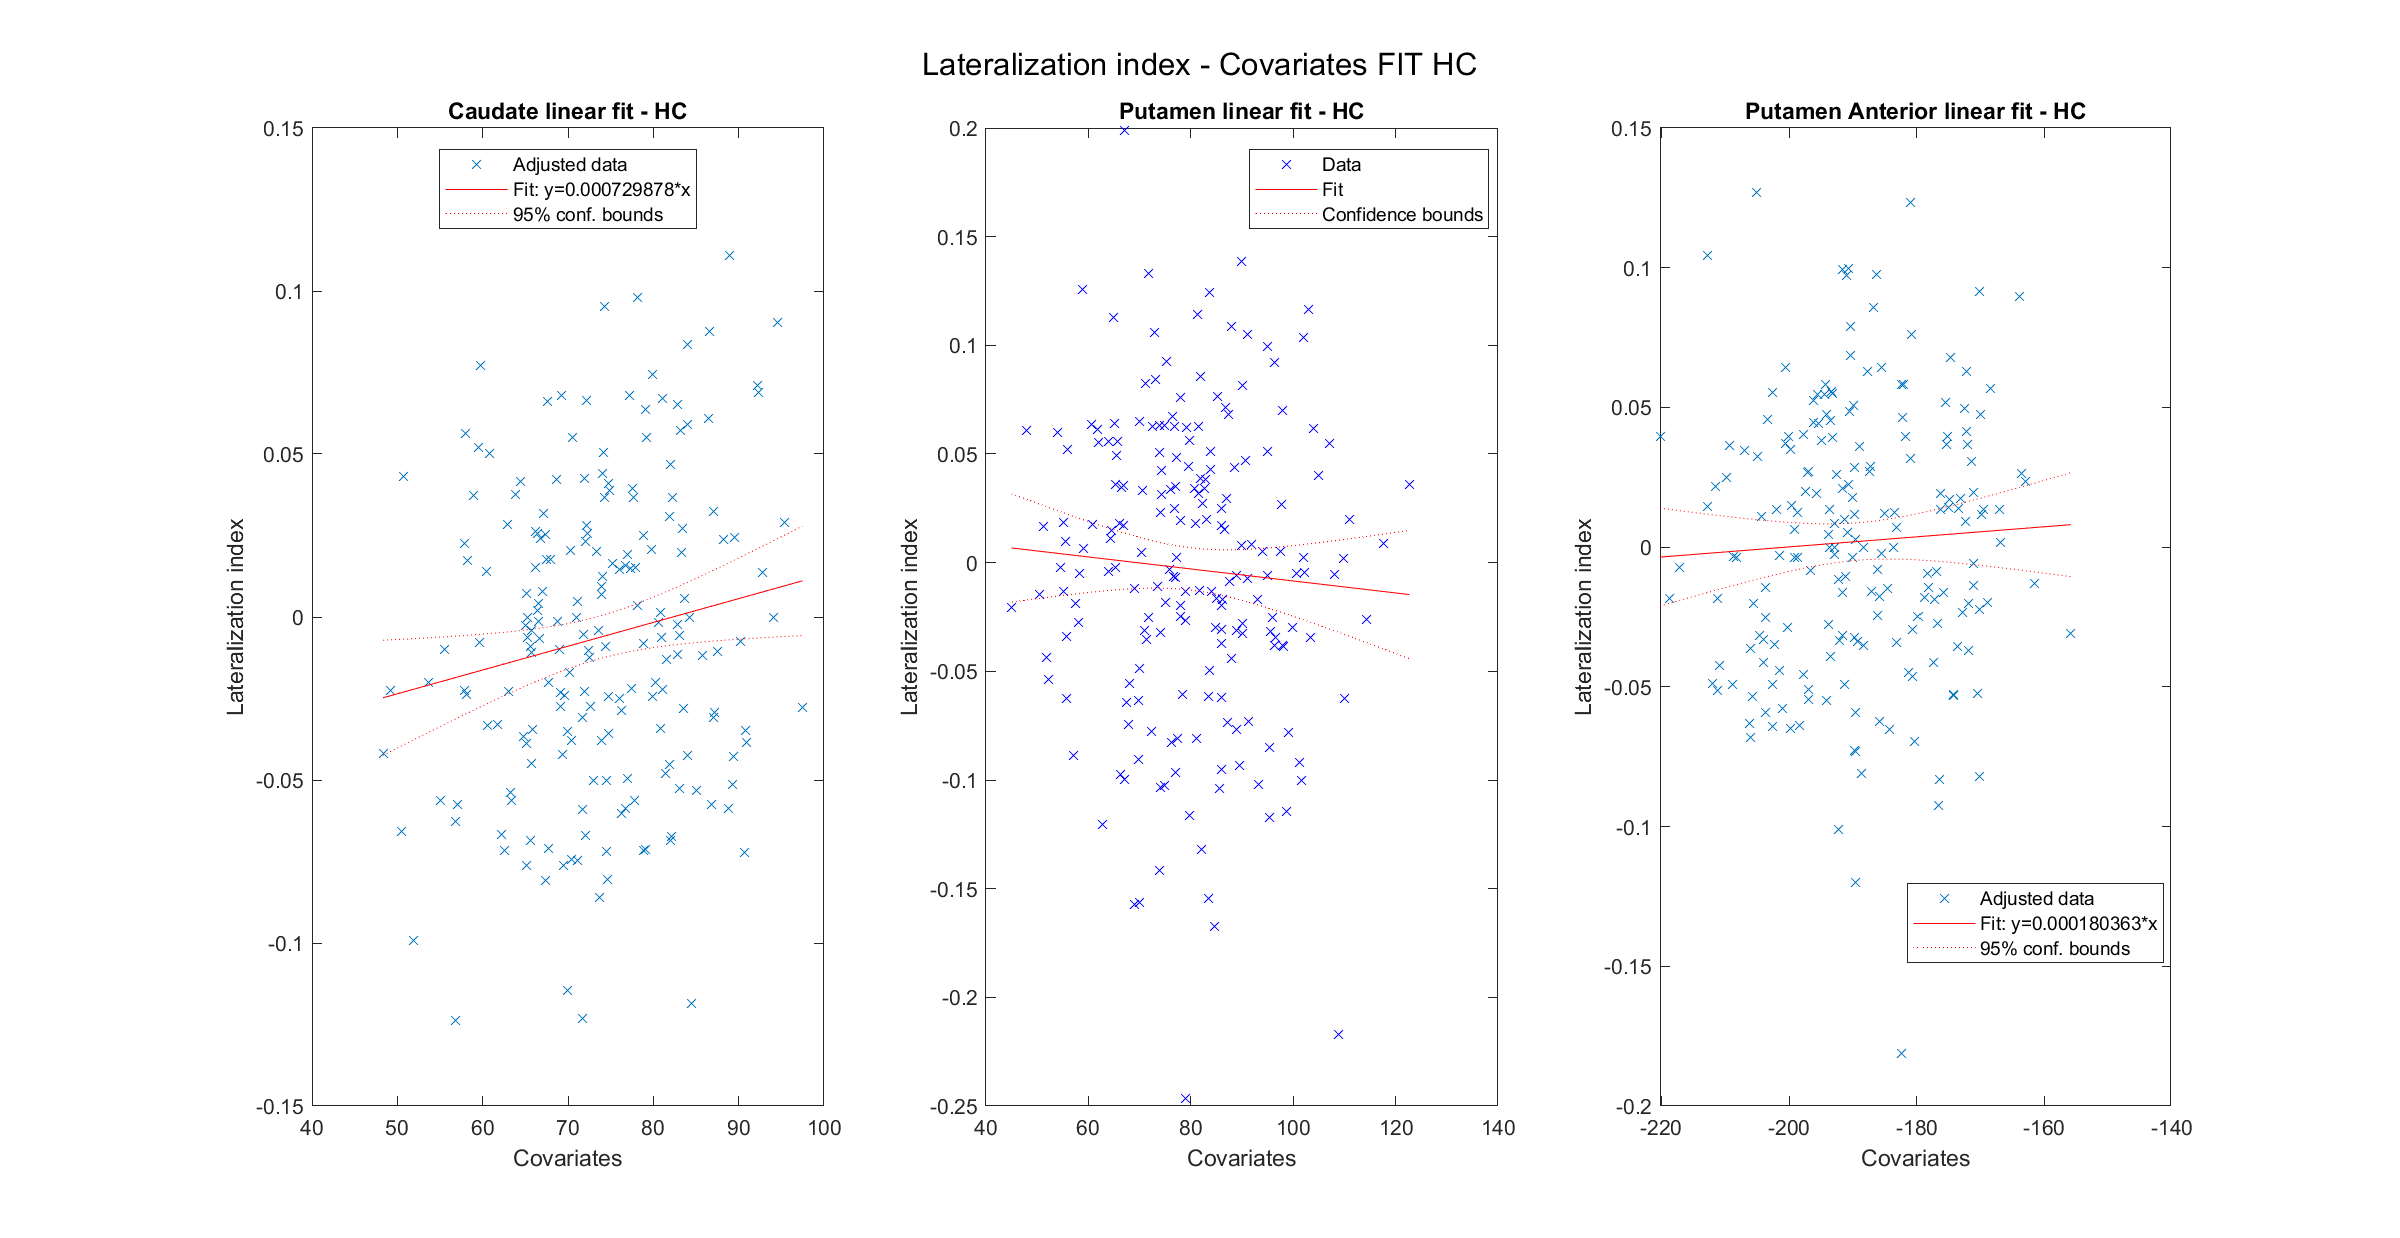
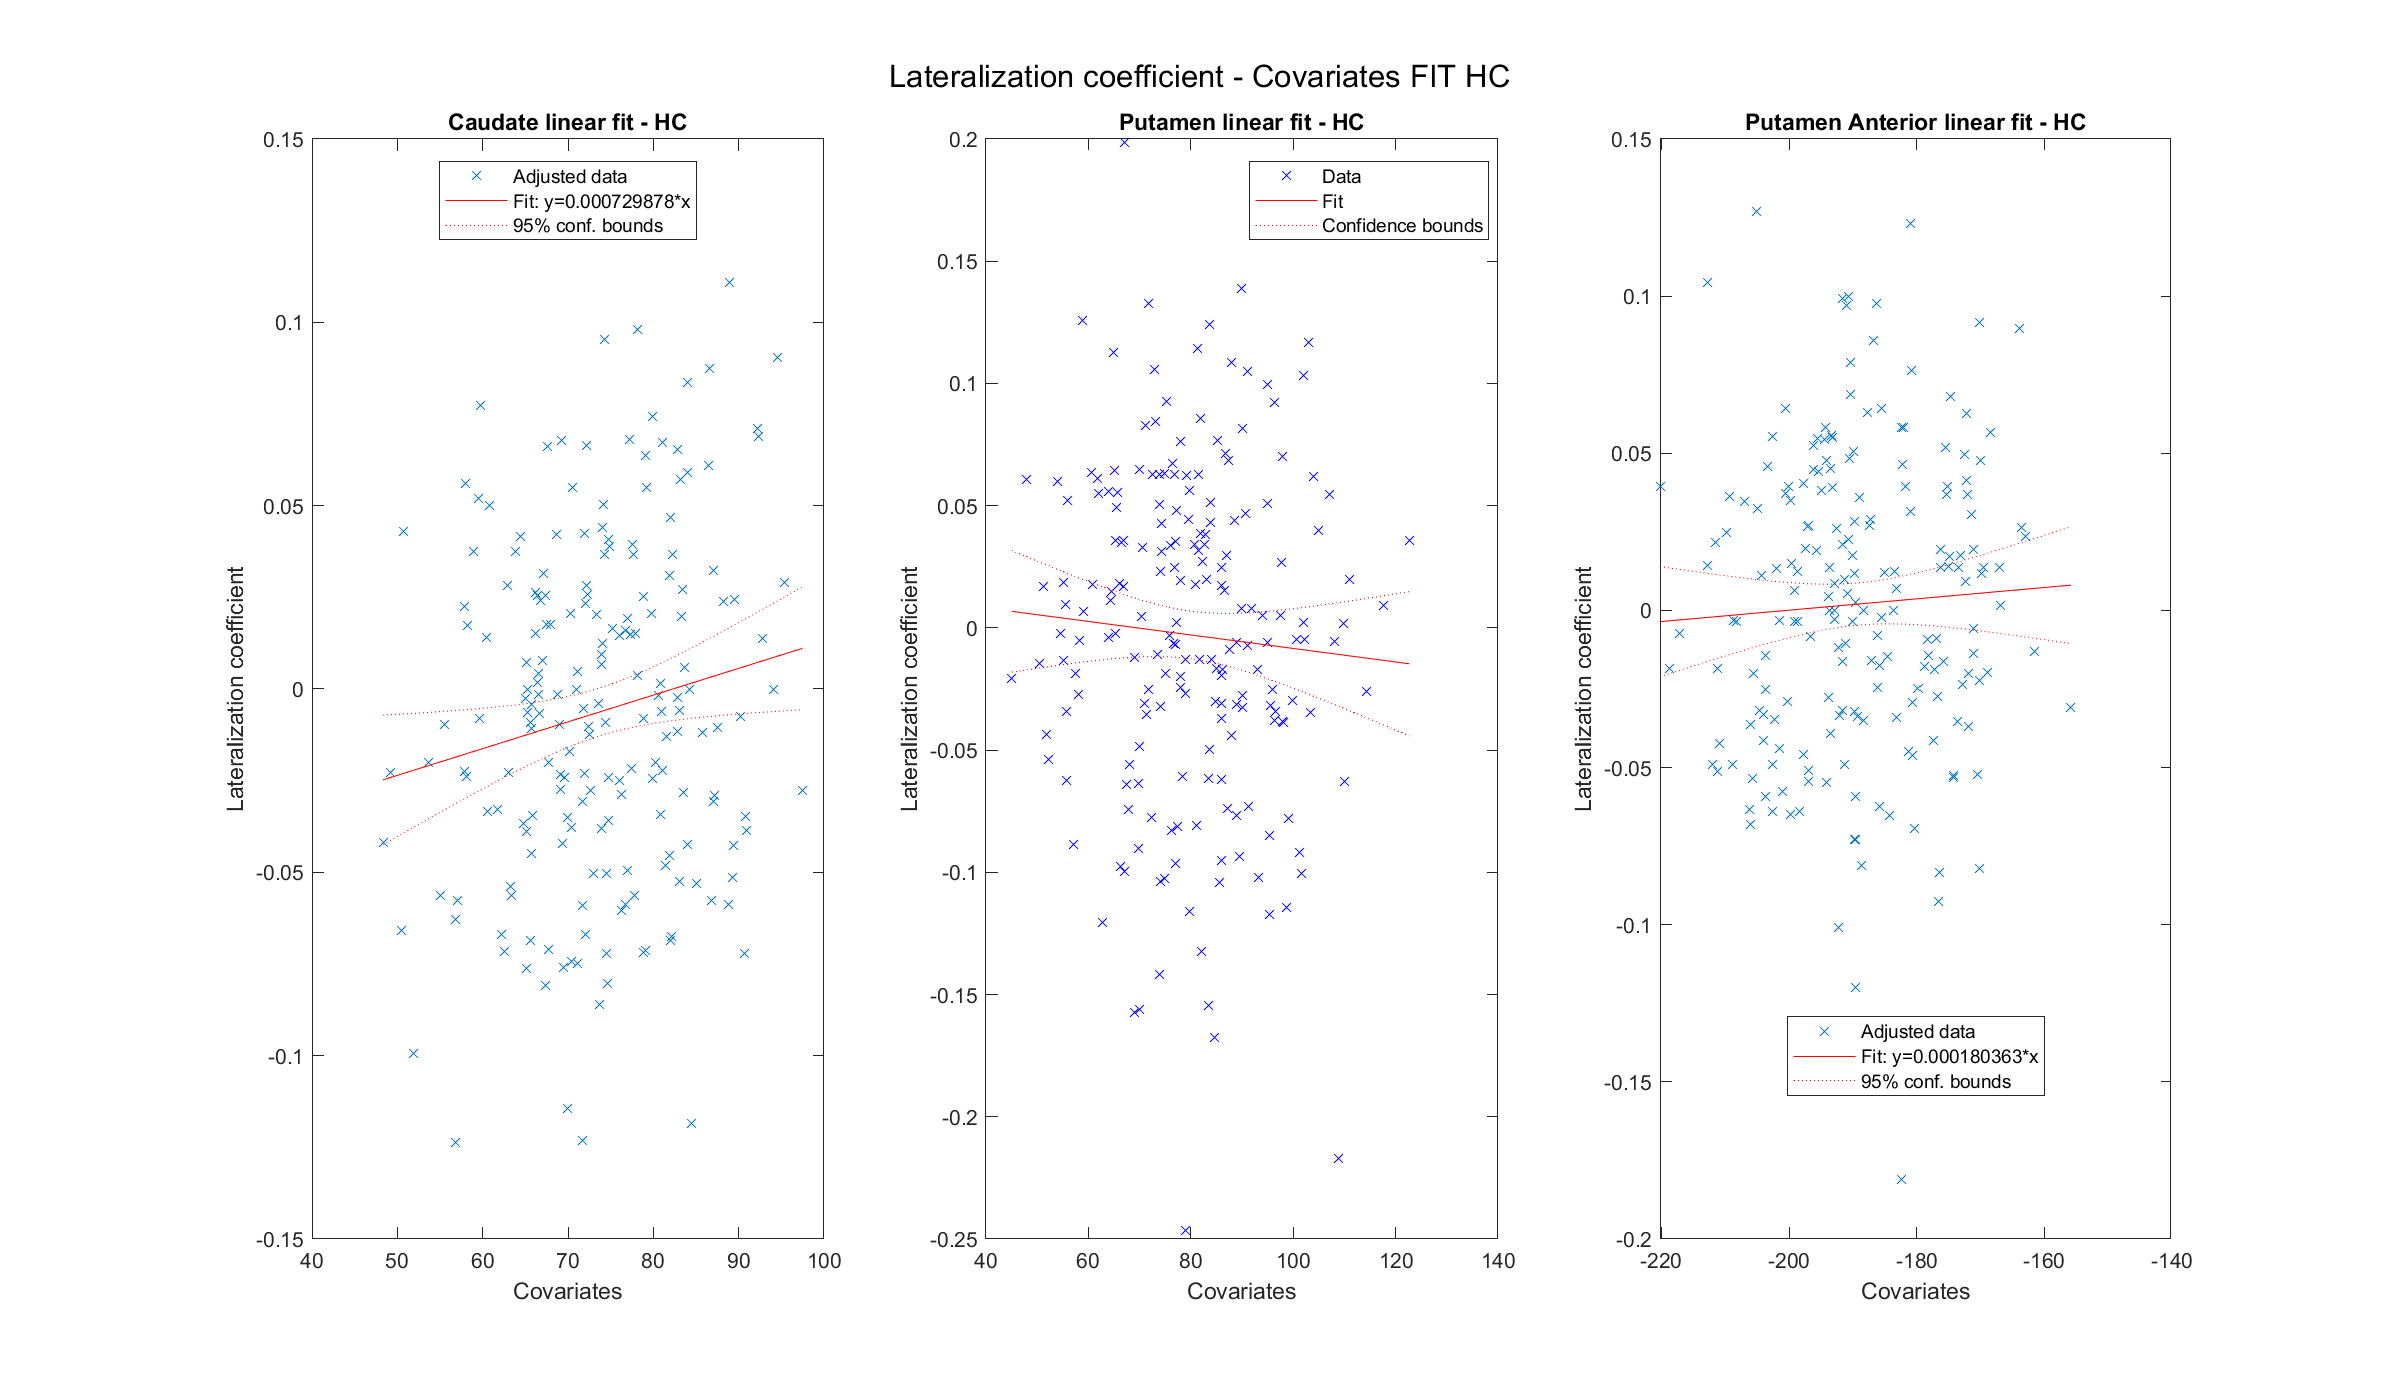
index -> coefficients

diff --git a/hm_biomarkers_new_version.m b/hm_biomarkers_new_version.m
@@ -491,8 +491,8 @@ end
 y = [LATERALIZATION_coeff.CAUDATE.PD' LATERALIZATION_coeff.CAUDATE.HC' LATERALIZATION_coeff.PUTAMEN.PD' LATERALIZATION_coeff.PUTAMEN.HC' LATERALIZATION_coeff.PUTAMEN_ANT.PD' LATERALIZATION_coeff.PUTAMEN_ANT.HC' ]';
 group4 = [group1; group2; group3];
 [p,tbl,stats]  = anova1(y,group4);
-title('Lateralization indexes for each ROI - PD & HC')
-ylabel('Lateralization index')
+title('Lateralization coefficients for each ROI - PD & HC')
+ylabel('Lateralization coefficient')
 
 clear y p tbl stats group4 group3 group2 group1 
 
@@ -759,7 +759,7 @@ plot(model_caud_hc)
 % xlim([-0.05 0.05])
 % ylim([-0.3 0.2])
 xlabel('Covariates')
-ylabel('Lateralization index')
+ylabel('Lateralization coefficient')
 title('Caudate linear fit - HC')
 
 subplot(132)
@@ -768,7 +768,7 @@ plot(model_put_hc)
 % xlim([-0.05 0.05])
 % ylim([-0.3 0.2])
 xlabel('Covariates')
-ylabel('Lateralization index')
+ylabel('Lateralization coefficient')
 title('Putamen linear fit - HC')
 
 subplot(133)
@@ -777,9 +777,9 @@ plot(model_put_ant_hc)
 % xlim([-0.05 0.05])
 % ylim([-0.3 0.2])
 xlabel('Covariates')
-ylabel('Lateralization index')
+ylabel('Lateralization coefficient')
 title('Putamen Anterior linear fit - HC')
-sgtitle('Lateralization index - Covariates FIT HC')
+sgtitle('Lateralization coefficient - Covariates FIT HC')
 
 
 saveas(figure(25), "fit_covariates_hc.png", "png")
@@ -849,7 +849,7 @@ covariate_fit.CAUDATE.ALL = names_permutazioni_caud{idx_max_R_squared_caud};
 xlim([-4 6])
 ylim([-0.6 0.8])
 xlabel('Covariates and symptoms')
-ylabel('Lateralization index')
+ylabel('Lateralization coefficient')
 title('Caudate linear fit - PD')
 
 subplot(132)
@@ -866,7 +866,7 @@ covariate_fit.PUTAMEN.ALL = names_permutazioni_put{idx_max_R_squared_put};
 xlim([-4 6])
 ylim([-0.6 0.8])
 xlabel('Covariates and symptoms')
-ylabel('Lateralization index')
+ylabel('Lateralization coefficient')
 title('Putamen linear fit - PD')
 
 subplot(133)
@@ -883,9 +883,9 @@ covariate_fit.PUTAMEN_ANT.ALL = names_permutazioni_put_ant{idx_max_R_squared_put
 xlim([-4 6])
 ylim([-0.6 0.8])
 xlabel('Covariates and symptoms')
-ylabel('Lateralization index')
+ylabel('Lateralization coefficient')
 title('Putamen Anterior linear fit - PD')
-sgtitle('Lateralization index - Regressors FIT PD')
+sgtitle('Lateralization coefficient - Regressors FIT PD')
 
 
 saveas(figure(26), "fit_covariates_pd.png", "png")
@@ -985,7 +985,7 @@ set(gcf, 'Position', get(0, 'Screensize'));
 subplot(121)
 plot(model_put_ant_male{idx_max_R_squared_put_ant_male})
 xlabel('Covariates and symptoms')
-ylabel('Lateralization index')
+ylabel('Lateralization coefficient')
 ylim([-0.4 0.5])
 xlim([-2.5 7])
 t = title('Fit Lateralization PUTAMEN ANTERIOR - Regressors [Male population]');
@@ -1065,7 +1065,7 @@ covariate_fit.PUTAMEN_ANT.FEMALE = names_permutazioni_put_ant{idx_max_R_squared_
 subplot(122)
 plot(model_put_ant_female{idx_max_R_squared_put_ant_female})
 xlabel('Covariates and symptoms')
-ylabel('Lateralization index')
+ylabel('Lateralization coefficient')
 ylim([-0.4 0.5])
 xlim([-2.5 7])
 t = title('Fit Lateralization PUTAMEN ANTERIOR - Regressors [Female population]');
